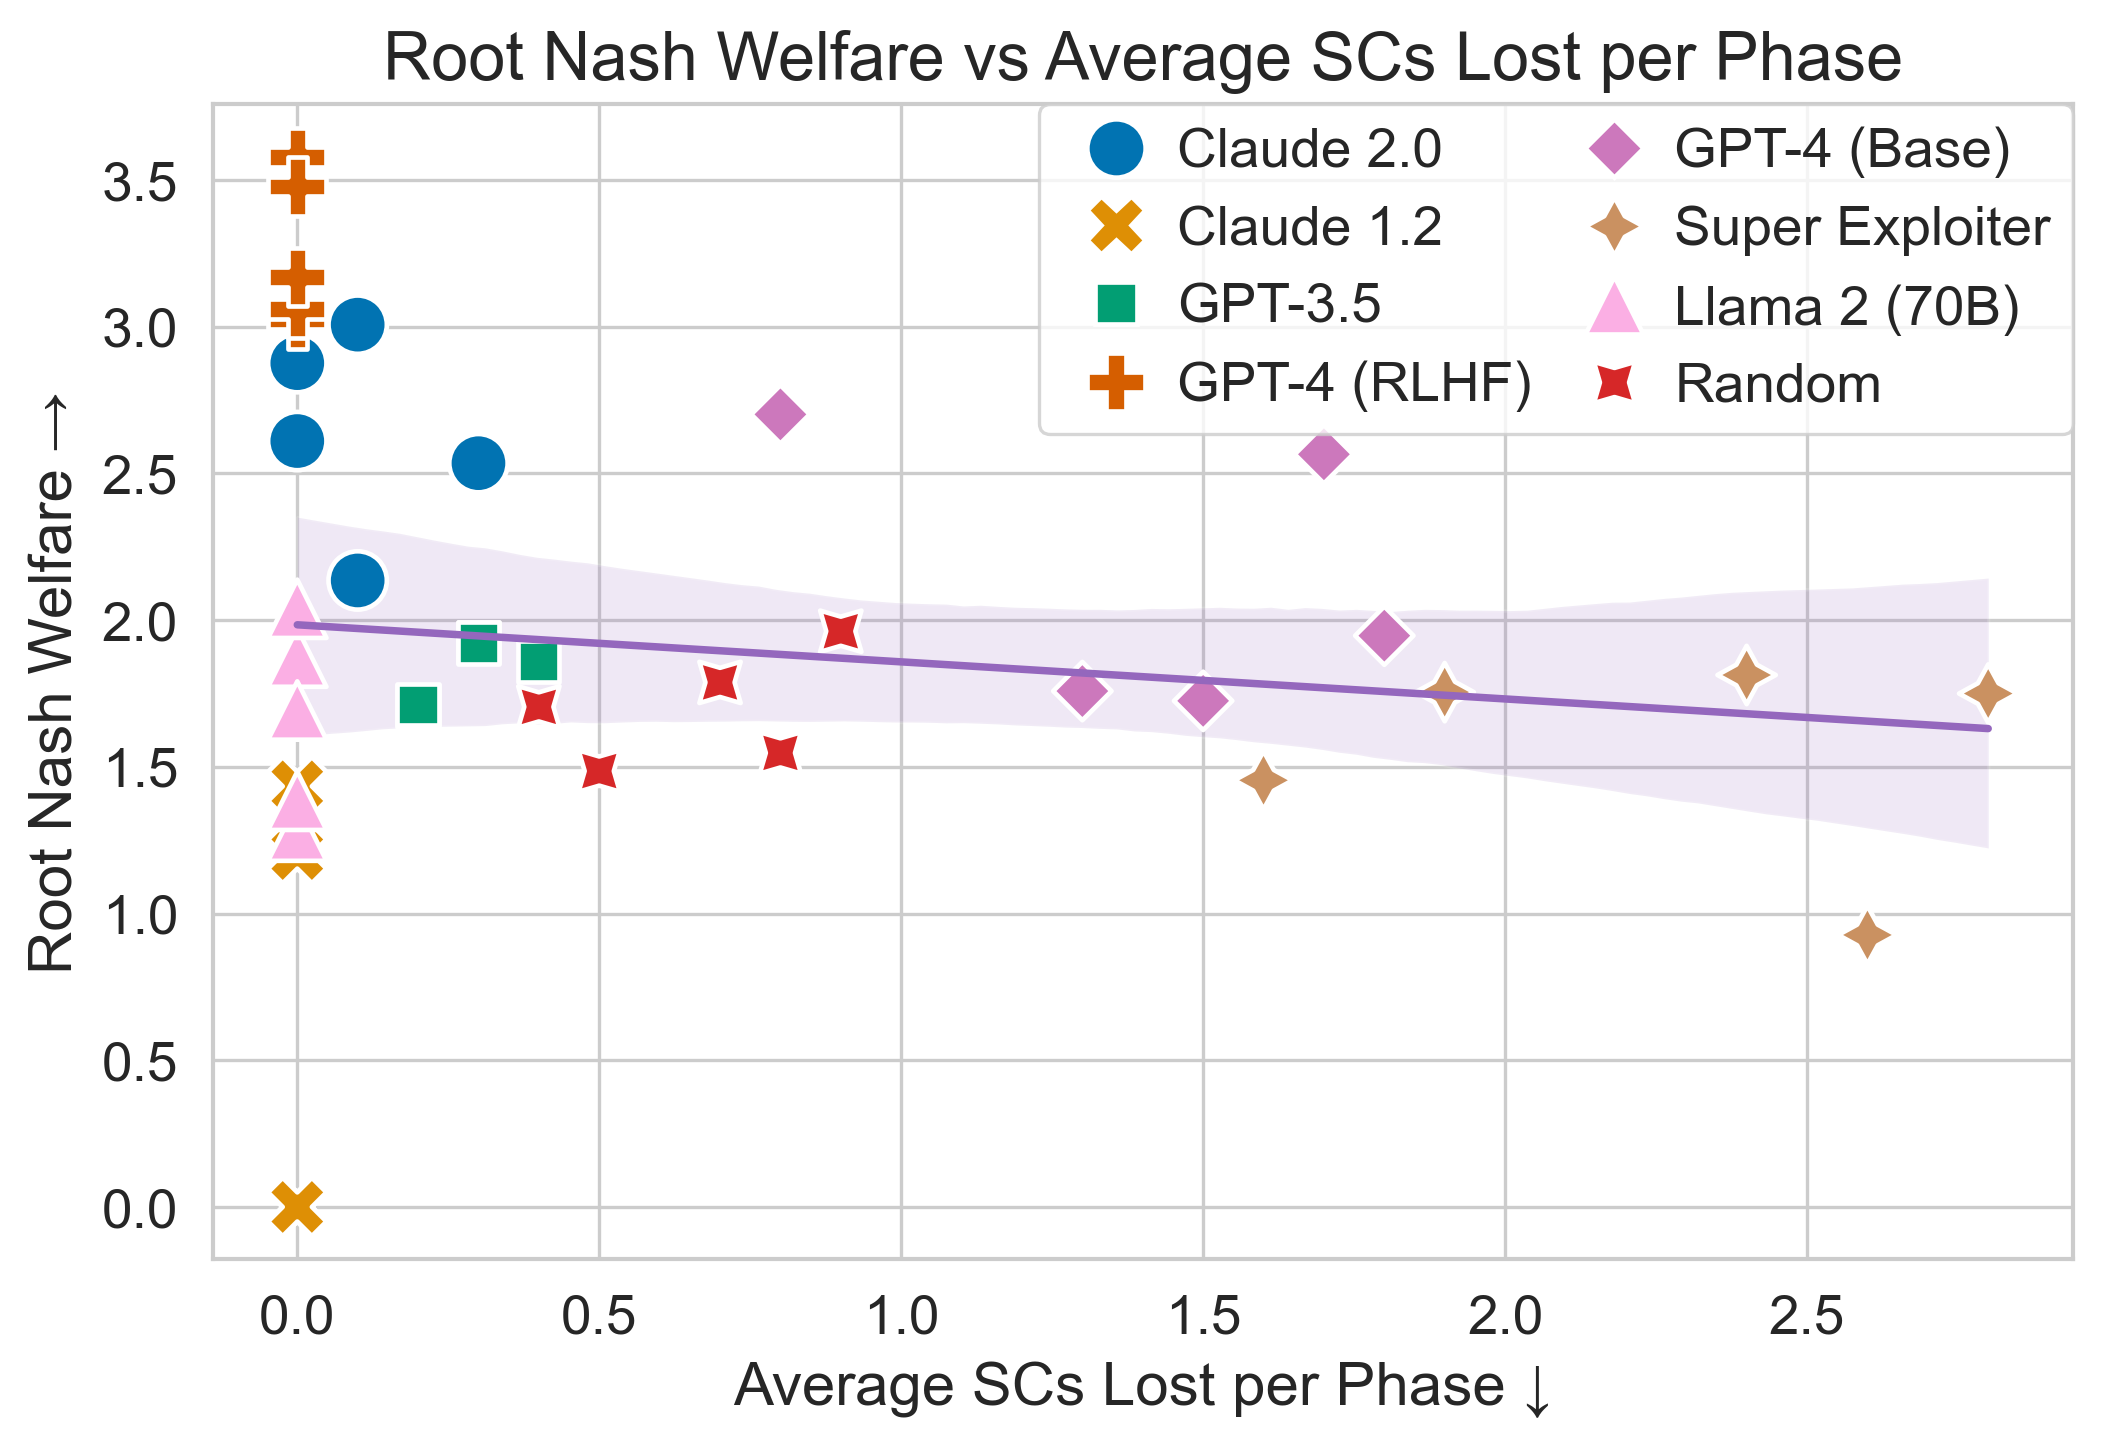
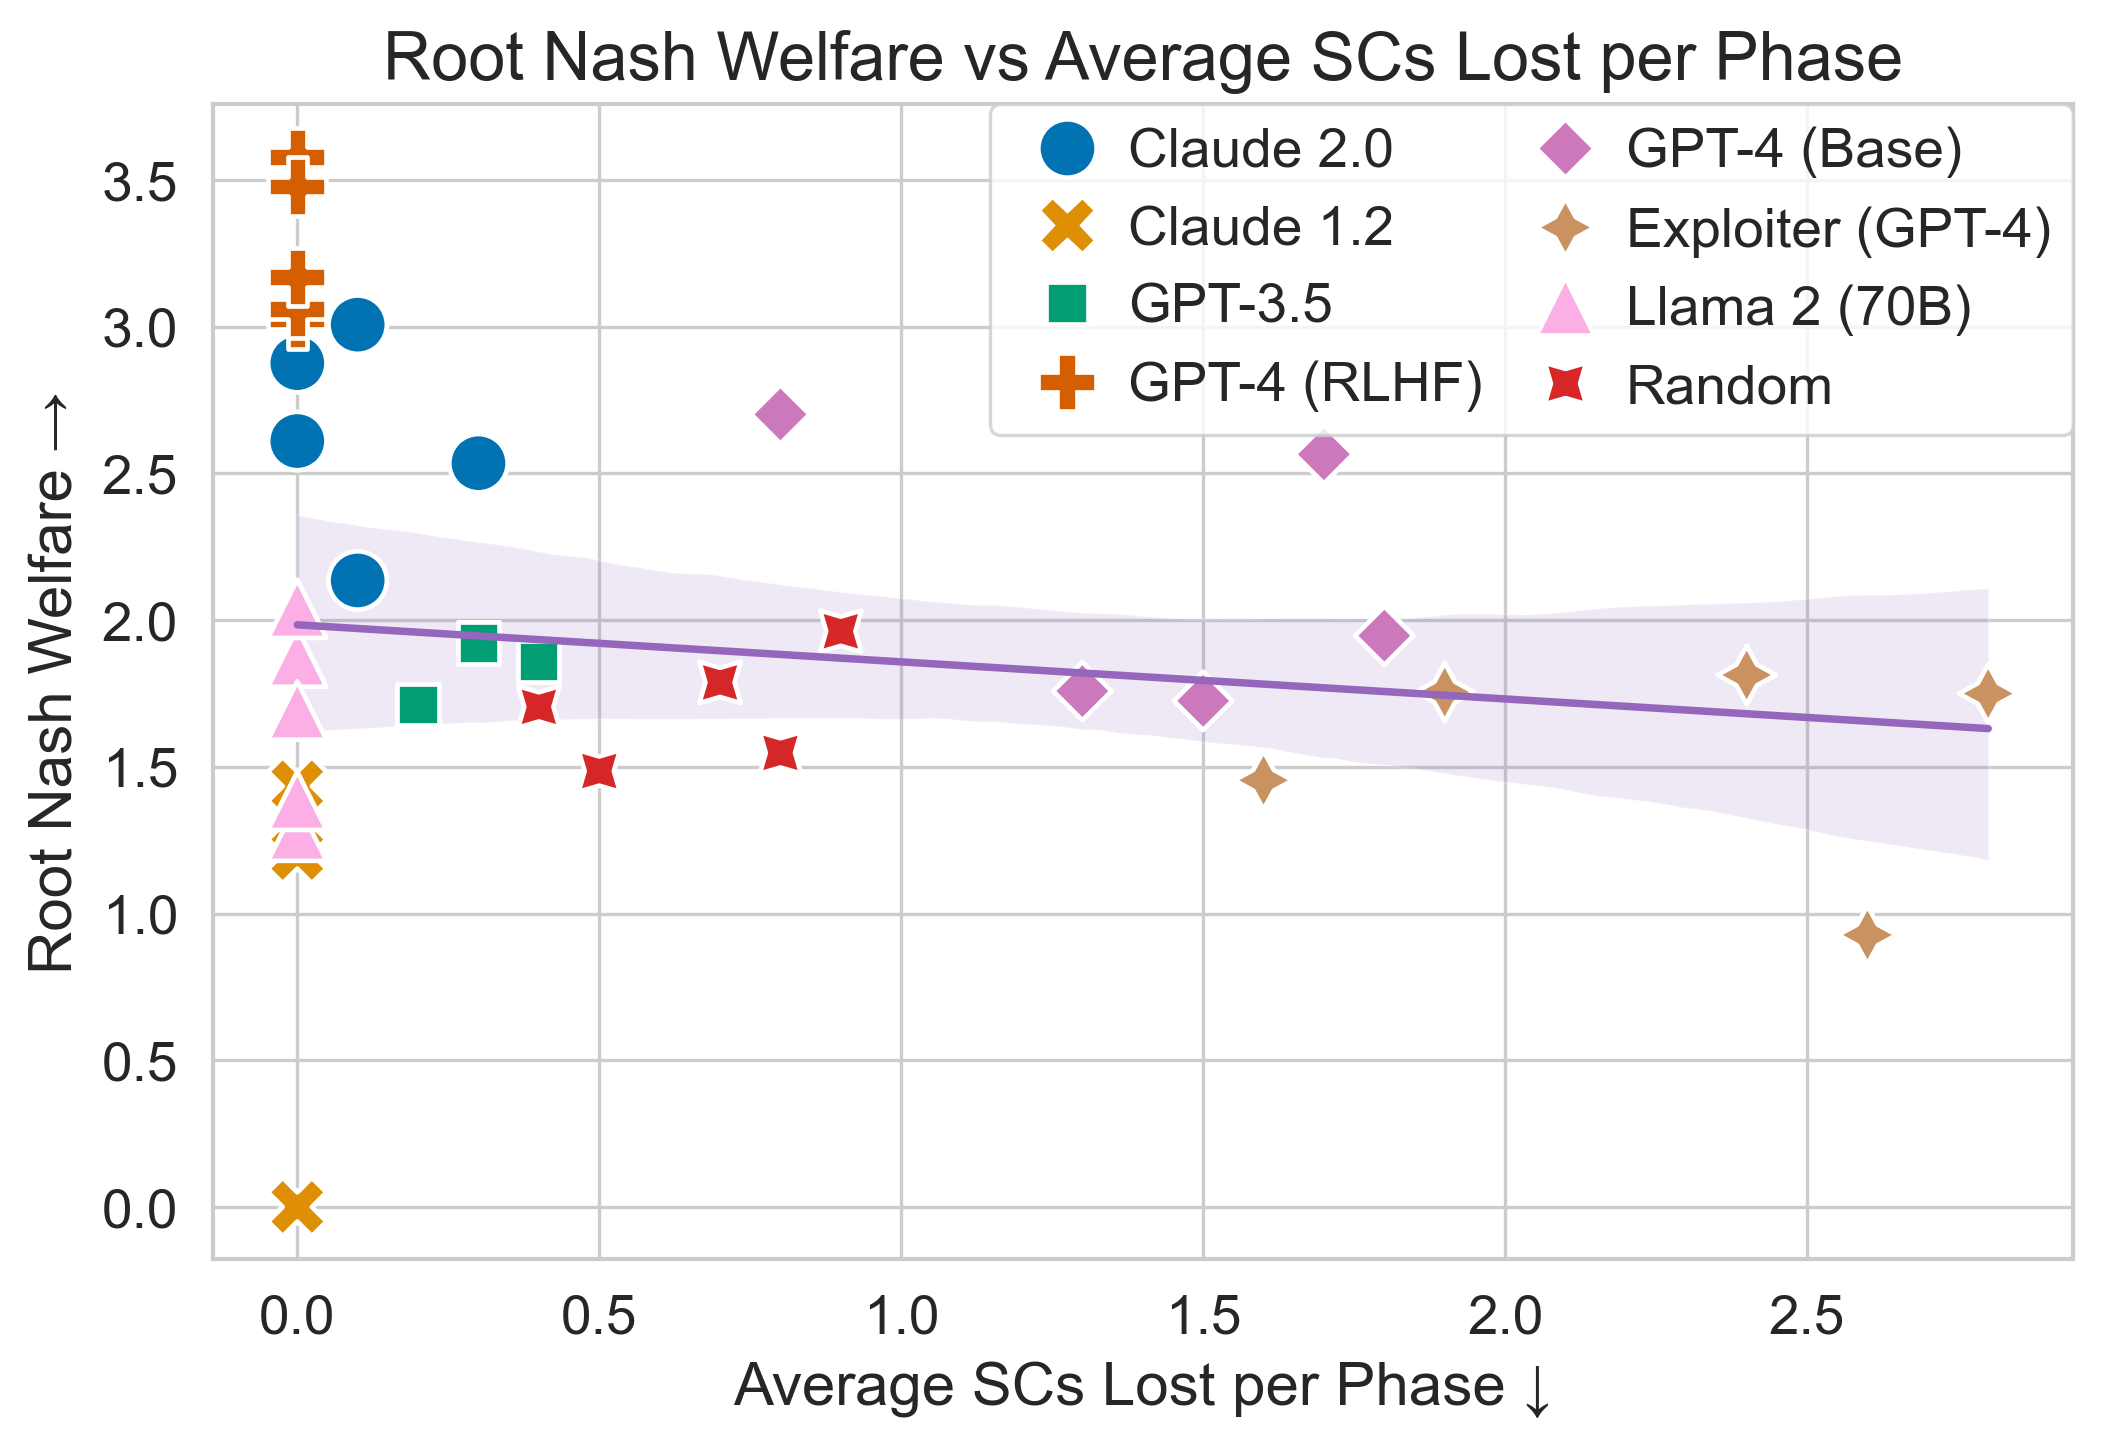
Plot remove super from exploiter

Changed region(s): [[0.4638, 0.0622, 0.9895, 0.2799]]

diff --git a/experiments/charts/super_exploitation.py b/experiments/charts/super_exploitation.py
@@ -13,7 +13,7 @@ from chart_utils import (
     COLOR_ALT_2,
     MODEL_COMPARISON_COLORS,
     MODEL_NAME_TO_DISPLAY_NAME,
-    MODEL_ORDER_NO_SE,
+    MODEL_ORDER_NO_EXPLOITER,
     initialize_plot_bar,
     initialize_plot_default,
     geometric_mean,
@@ -198,7 +198,7 @@ def main() -> None:
                 x=x_label,
                 y=y_label,
                 errorbar="ci",
-                order=MODEL_ORDER_NO_SE,
+                order=MODEL_ORDER_NO_EXPLOITER,
                 capsize=0.2,
                 hue=x_label,
                 palette=MODEL_COMPARISON_COLORS,
@@ -288,9 +288,7 @@ def main() -> None:
         plt.xlabel("Average Conflicts per Phase ↓")
         plt.ylabel("Root Nash Welfare (Global) →")
 
-        title = (
-            f"Root Nash Welfare (Global) vs Conflicts({num_exploiters} Exploiters)"
-        )
+        title = f"Root Nash Welfare (Global) vs Conflicts({num_exploiters} Exploiters)"
         if num_exploiters == 1:
             title = title.replace("Exploiters", "Exploiter")
         plt.title(title)

diff --git a/experiments/charts/chart_utils.py b/experiments/charts/chart_utils.py
@@ -117,7 +117,7 @@ DEFAULT_COLOR_PALETTE = "colorblind"
 
 MODEL_NAME_TO_DISPLAY_NAME = {
     "llama-2-70b-chat": "Llama 2\n(70B)",
-    "Super Exploiter": "Super\nExploiter",
+    "Super Exploiter": "Exploiter\n(GPT-4)",
     "claude-instant-1.2": "Claude\n1.2",
     "claude-2.0": "Claude\n2.0",
     "gpt-3.5-turbo-16k-0613": "GPT-3.5",
@@ -125,7 +125,9 @@ MODEL_NAME_TO_DISPLAY_NAME = {
     "gpt-4-0613": "GPT-4\n(RLHF)",
 }
 MODEL_ORDER = list(MODEL_NAME_TO_DISPLAY_NAME.values())
-MODEL_ORDER_NO_SE = [model for model in MODEL_ORDER if model != "Super\nExploiter"]
+MODEL_ORDER_NO_EXPLOITER = [
+    model for model in MODEL_ORDER if model != "Exploiter\n(GPT-4)"
+]
 
 MODEL_NAME_TO_COLOR = {
     model_name: _get_color_from_palette(index)
